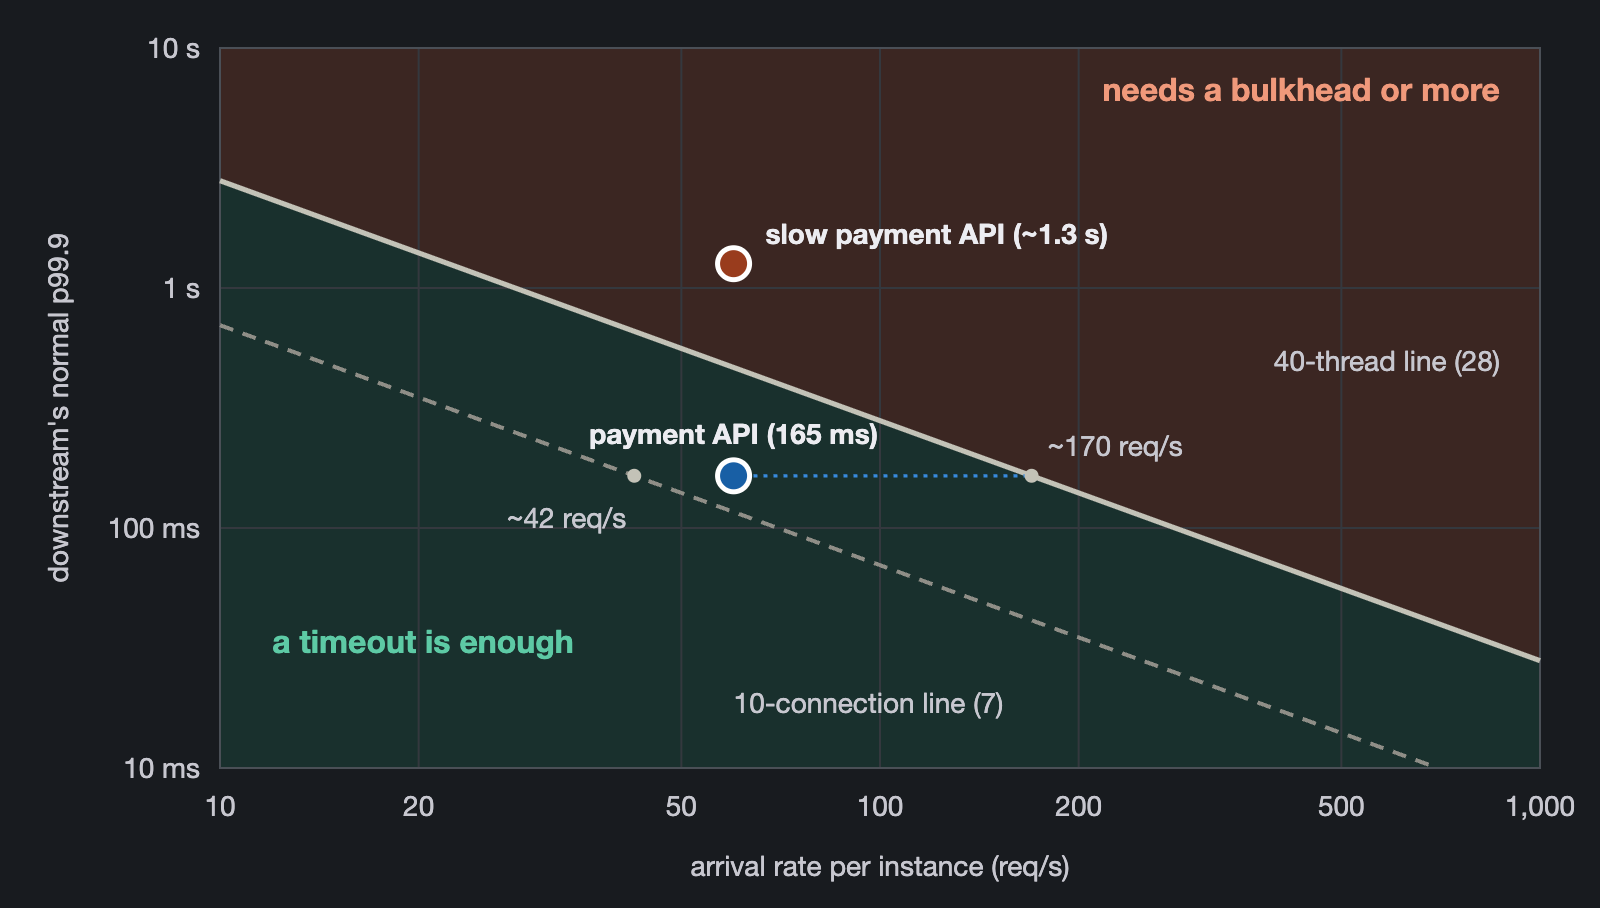
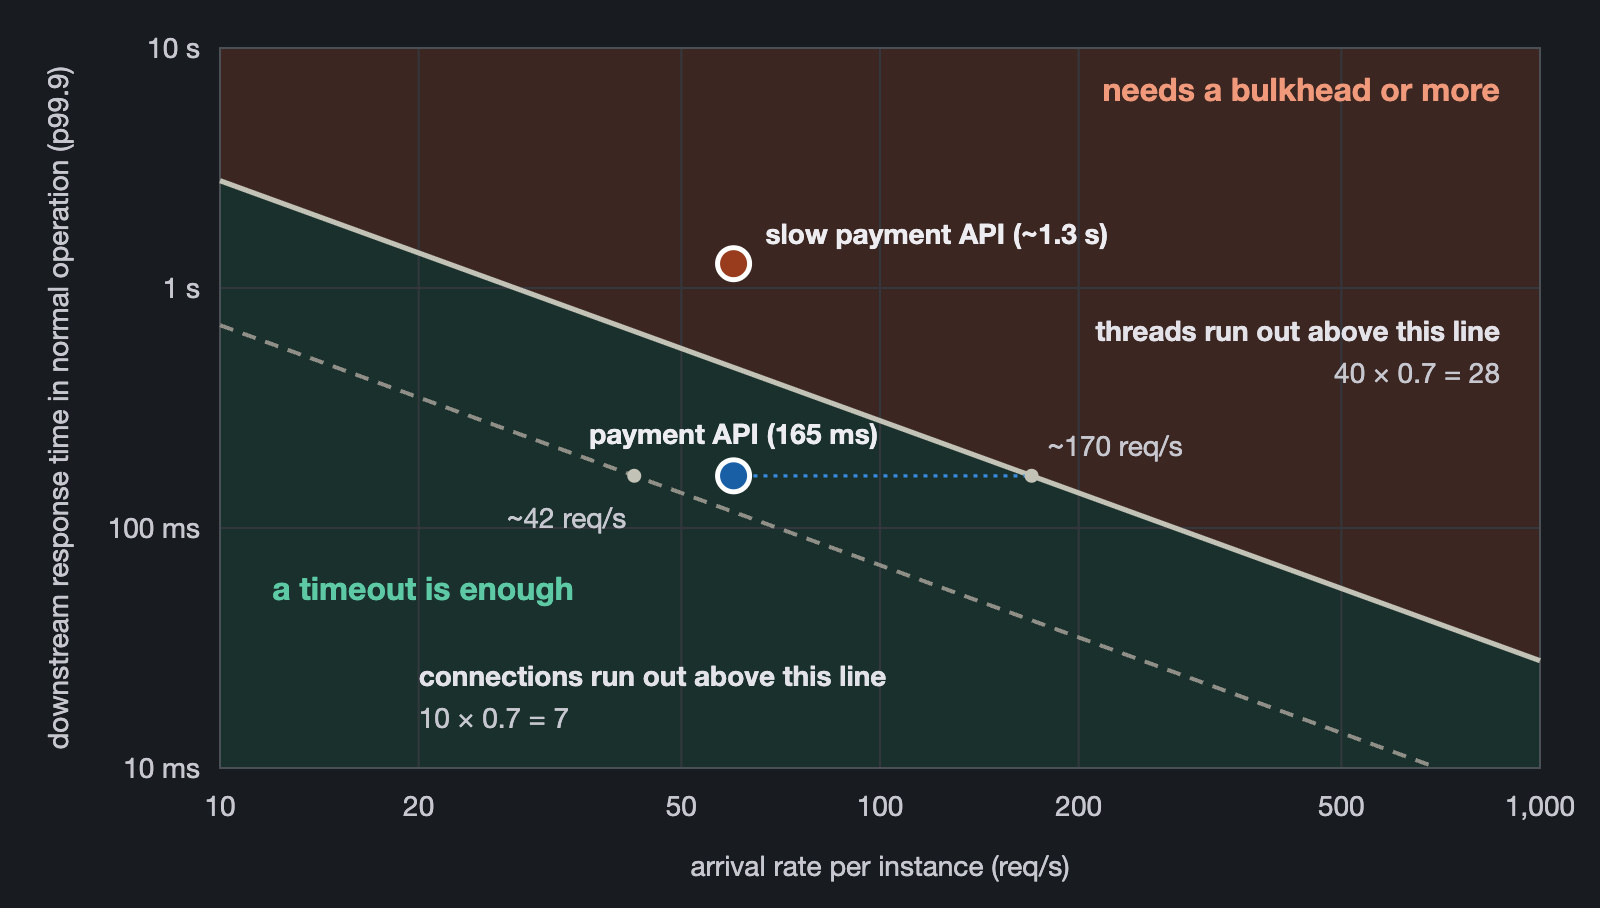
Name the boundary lines and the vertical axis in plain words

Changed region(s): [[0.1562, 0.6167, 0.625, 0.8018], [0.0312, 0.0617, 0.0625, 0.8326], [0.6875, 0.3392, 0.9375, 0.4317]]

diff --git a/tools/diagrams/timeout-boundary.html b/tools/diagrams/timeout-boundary.html
@@ -55,18 +55,23 @@
   }
   el(svg, 'rect', { x: PX0, y: PY0, width: PX1 - PX0, height: PY1 - PY0, fill: 'none', stroke: '#4a4f56', 'stroke-width': 1 });
   text(svg, (PX0 + PX1) / 2, PY1 + 54, 'small mid', tr('1 台あたりの到着率（件/秒）', 'arrival rate per instance (req/s)'));
-  el(svg, 'text', { x: 0, y: 0, class: 'small mid', transform: `translate(34 ${(PY0 + PY1) / 2}) rotate(-90)` }, tr('下流の平常時の p99.9', "downstream's normal p99.9"));
+  el(svg, 'text', { x: 0, y: 0, class: 'small mid', transform: `translate(34 ${(PY0 + PY1) / 2}) rotate(-90)` }, tr('下流の平常時の応答時間（p99.9）', 'downstream response time in normal operation (p99.9)'));
 
   // 境目の線。到着率 × p99.9 ＝ プールの大きさ × 使ってよい割合 0.7
   for (const [cap, dash] of [[THREADS, null], [CONNS, '7 5']]) {
     const ra = Math.max(RMIN, cap / PMAX), rb = Math.min(RMAX, cap / PMIN);
     el(svg, 'line', { x1: X(ra), y1: Y(cap / ra), x2: X(rb), y2: Y(cap / rb), stroke: dash ? DASH : LINE, 'stroke-width': dash ? 2 : 2.6, ...(dash && { 'stroke-dasharray': dash }) });
   }
-  text(svg, X(RMAX) - 20, Y(0.45), 'body end', tr('スレッド 40 本の線（28 本）', '40-thread line (28)'));
-  text(svg, X(60), Y(0.017), 'body', tr('コネクション 10 本の線（7 本）', '10-connection line (7)'));
+  // 線の名前は、何の境目かを書き、その下に本数の計算を添える
+  text(svg, X(RMAX) - 20, Y(0.6), 'lbl end', tr('スレッドが尽きる境目', 'threads run out above this line'));
+  svg.lastChild.style.fill = '#e2e2e8';
+  text(svg, X(RMAX) - 20, Y(0.6) + 21, 'small end', tr('40 本 × 0.7 ＝ 28 本', '40 × 0.7 = 28'));
+  text(svg, X(20), Y(0.022), 'lbl', tr('コネクションが尽きる境目', 'connections run out above this line'));
+  svg.lastChild.style.fill = '#e2e2e8';
+  text(svg, X(20), Y(0.022) + 21, 'small', tr('10 本 × 0.7 ＝ 7 本', '10 × 0.7 = 7'));
 
   // 領域の名前
-  text(svg, X(12), Y(0.03), 'hl', tr('タイムアウトで足りる', 'a timeout is enough'));
+  text(svg, X(12), Y(0.05), 'hl', tr('タイムアウトで足りる', 'a timeout is enough'));
   svg.lastChild.style.fill = OK_TEXT;
   text(svg, X(RMAX) - 20, Y(6), 'hl end', tr('バルクヘッドなどが要る', 'needs a bulkhead or more'));
   svg.lastChild.style.fill = NG_TEXT;
